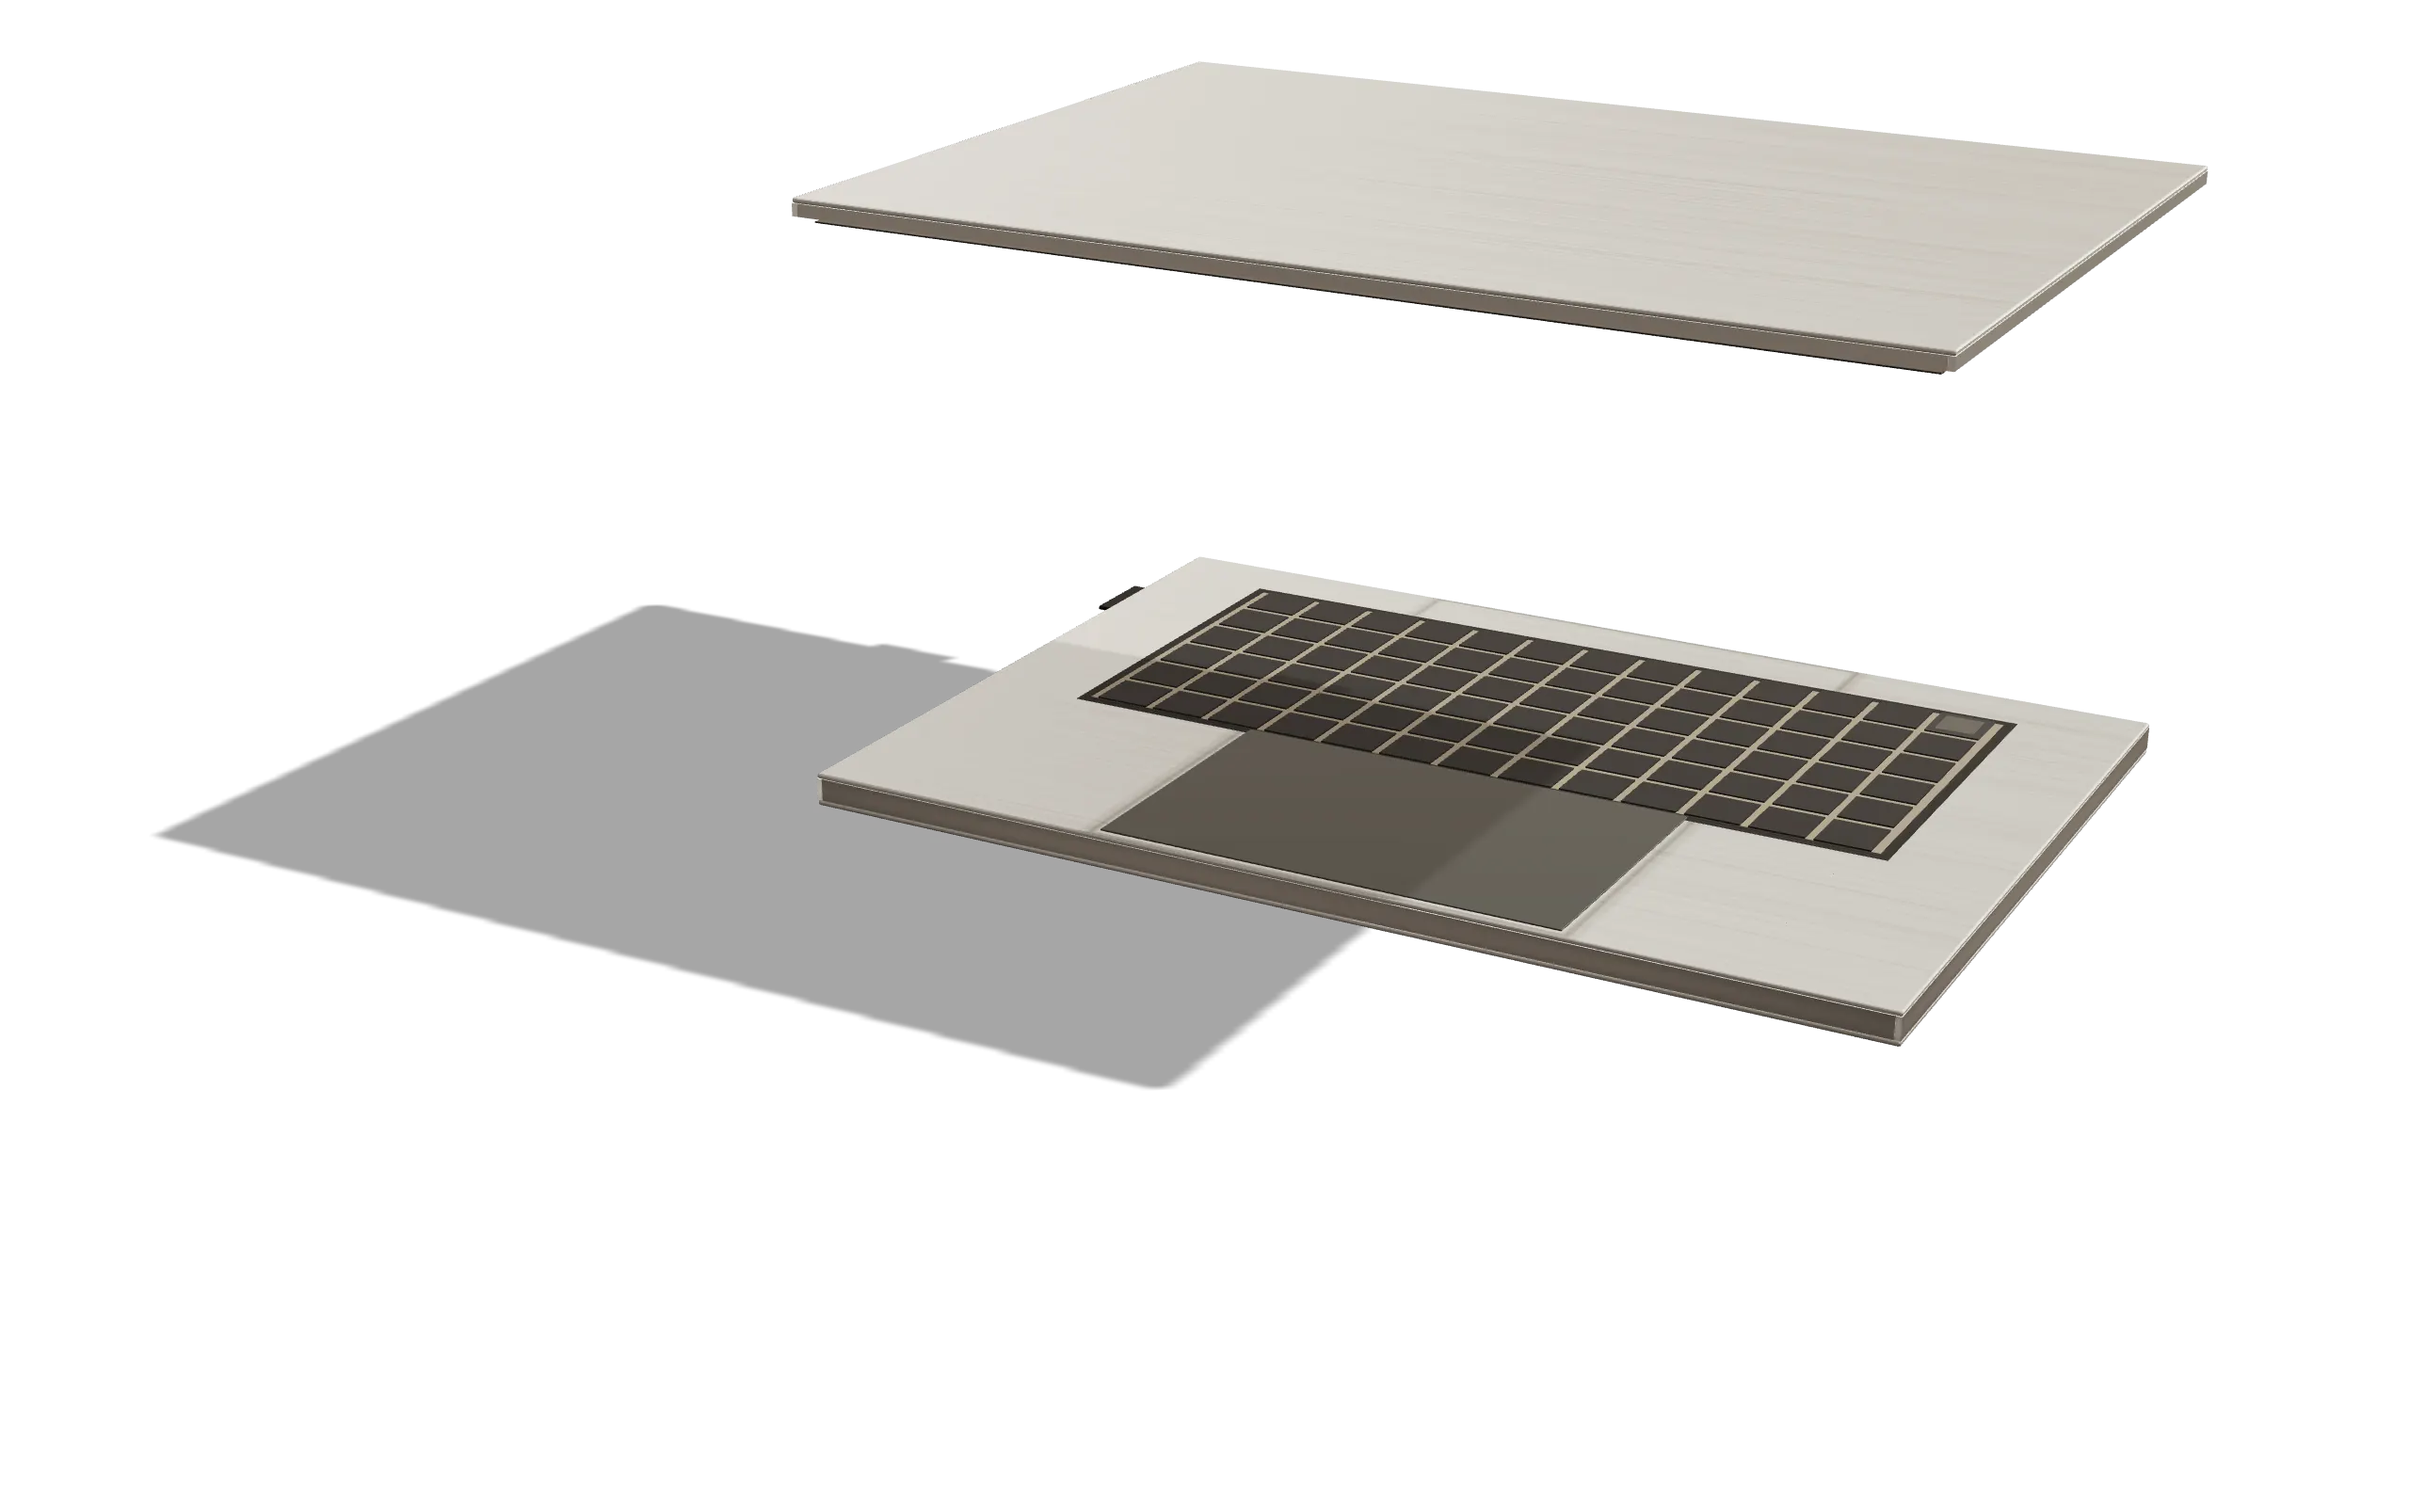
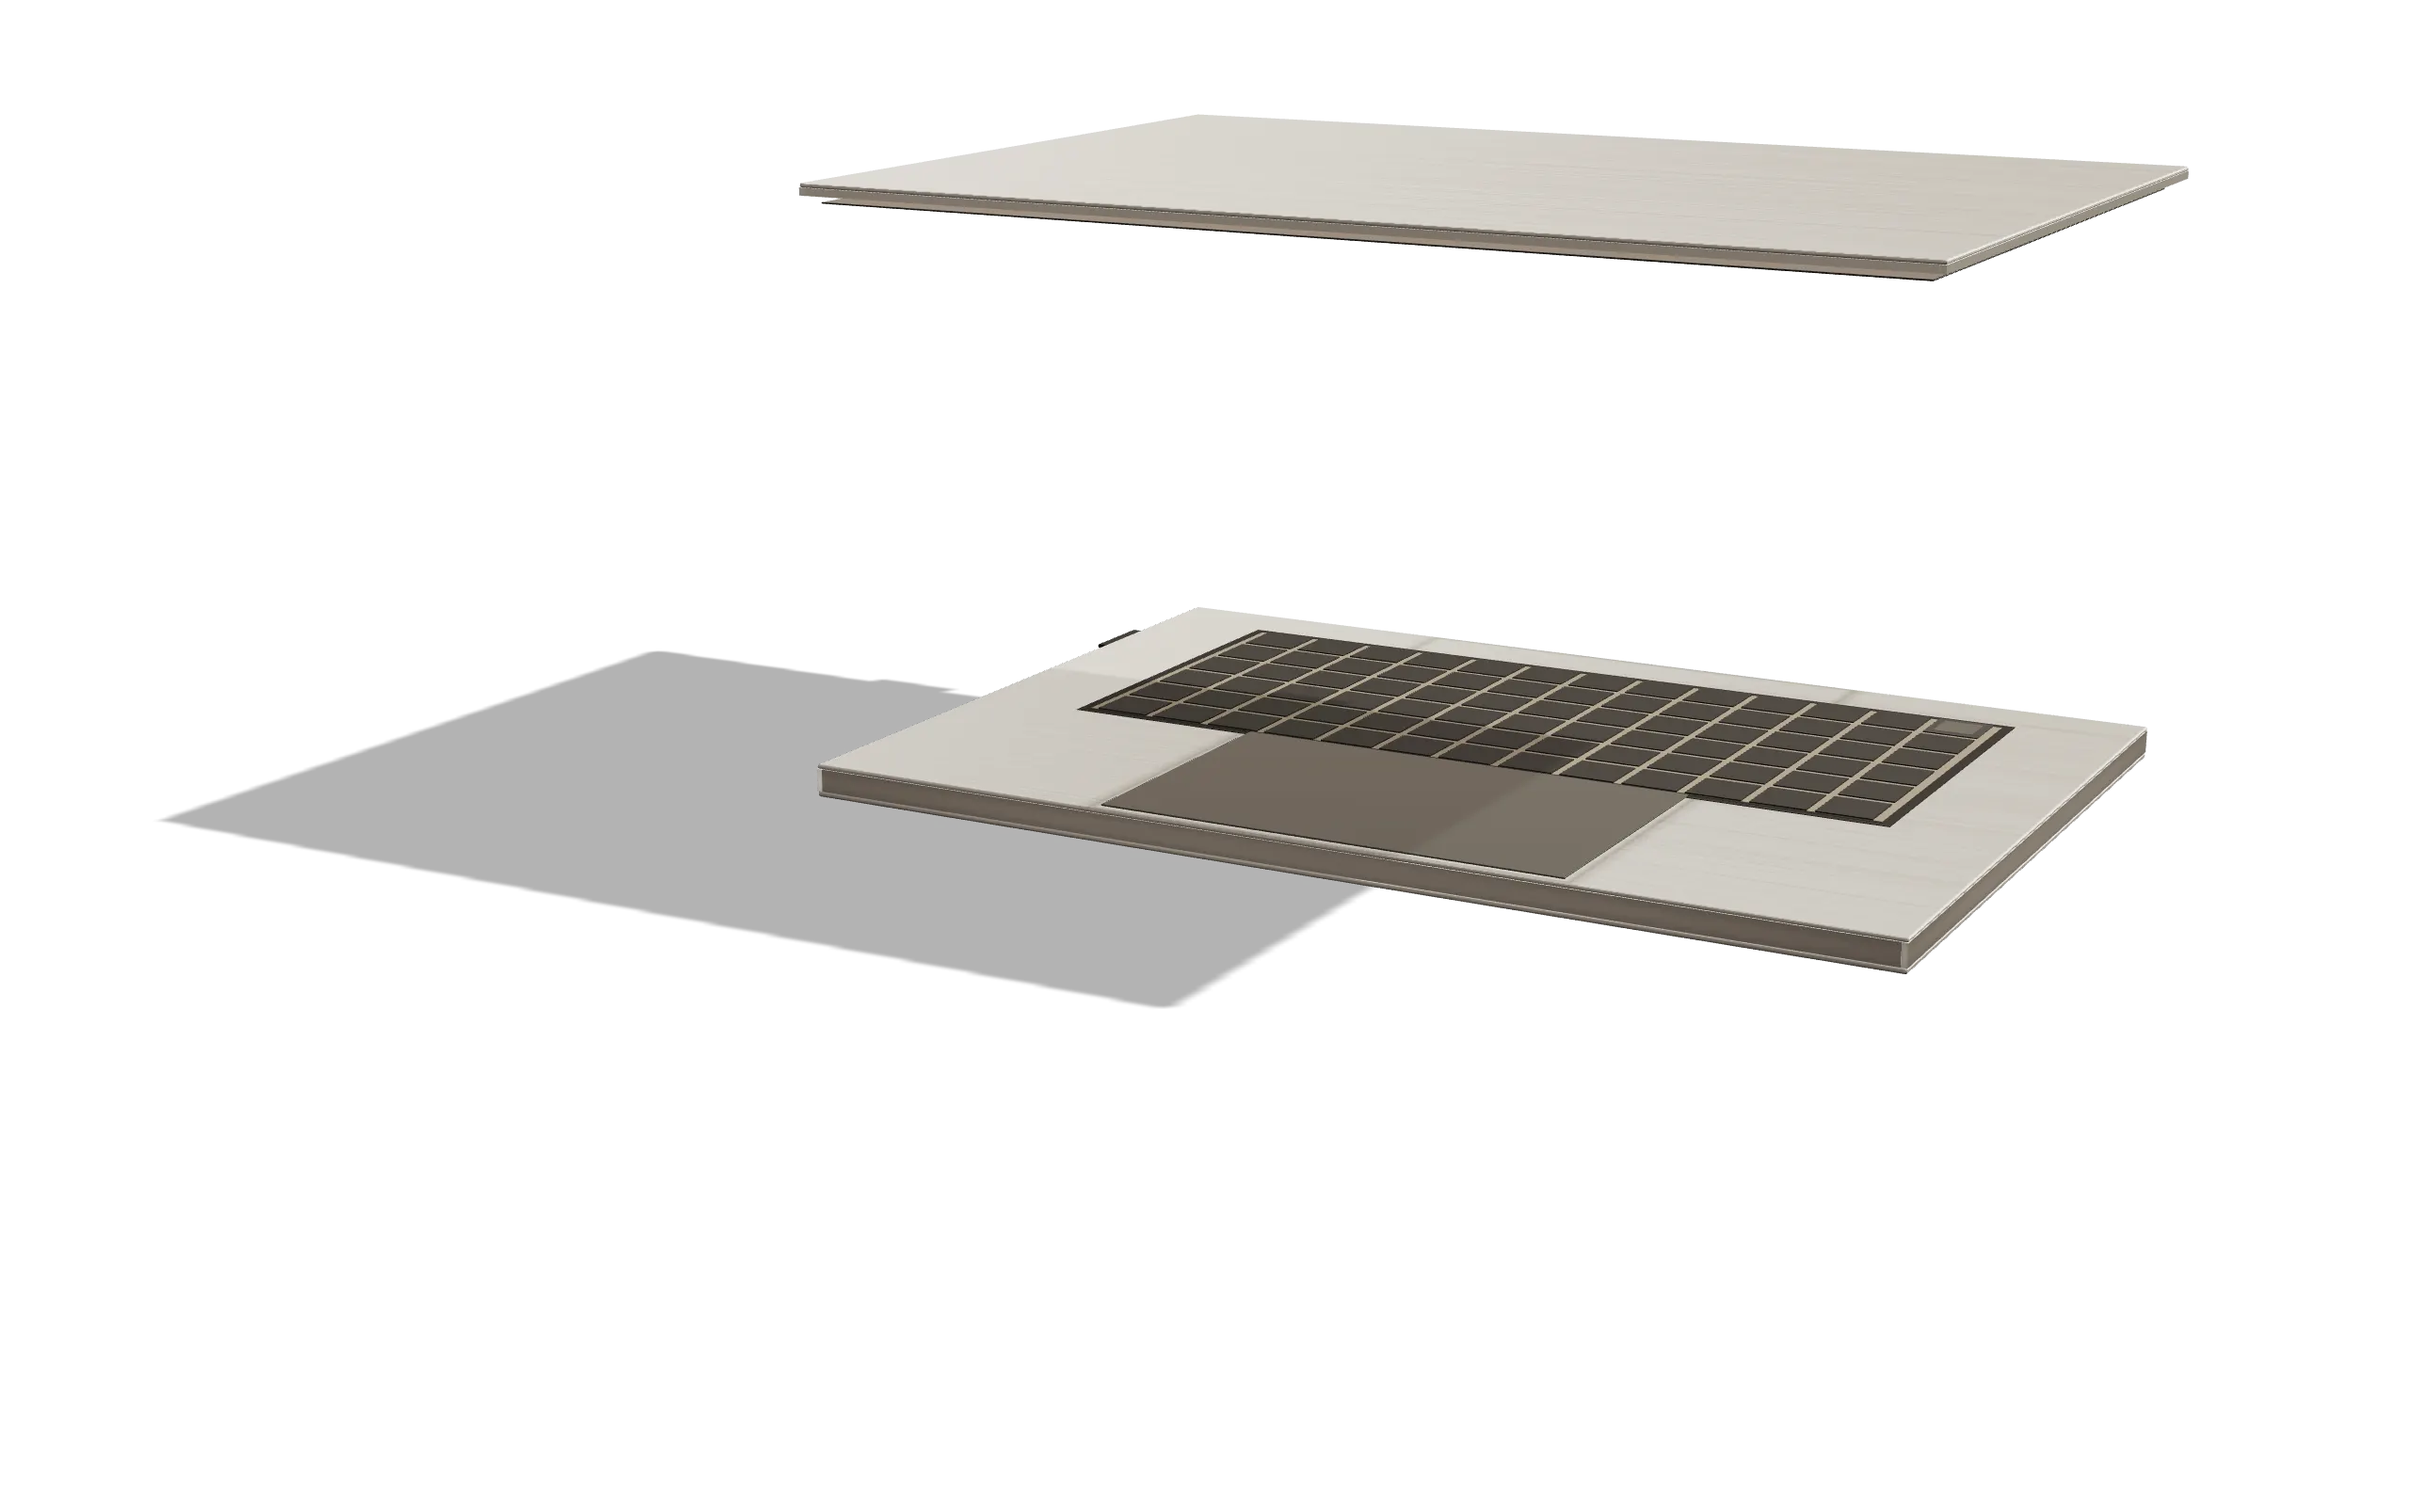
slim

Changed region(s): [[0.0625, 0.375, 0.9062, 0.7188], [0.3125, 0.0312, 0.9375, 0.25]]

diff --git a/engineering/js/model.js b/engineering/js/model.js
@@ -89,30 +89,32 @@ export function buildStandIn() {
   const display = new THREE.Group();
   display.name = 'display_assembly';
 
+  // Slimmed closed profile: the display assembly is a 3.3 mm stack
+  // (glass 10.9 → shell top 13.95) instead of the earlier 4.8 mm brick.
   display.add(buildMesh('display_shell', [{ mat: M.alu, geoms: [
-    rbox(304, 1.4, 212, 0, 14.9, 0, 0.6),              // outer shell plate, beveled edge
-    box(1.6, 3.4, 212, -151.2, 12.5, 0),               // perimeter skirt
-    box(1.6, 3.4, 212, 151.2, 12.5, 0),
-    box(300.8, 3.4, 1.6, 0, 12.5, -105.2),
-    box(300.8, 3.4, 1.6, 0, 12.5, 105.2),
+    rbox(304, 1.2, 212, 0, 13.35, 0, 0.55),            // outer shell plate, beveled edge
+    box(1.6, 2.05, 212, -151.2, 11.72, 0),             // perimeter skirt
+    box(1.6, 2.05, 212, 151.2, 11.72, 0),
+    box(300.8, 2.05, 1.6, 0, 11.72, -105.2),
+    box(300.8, 2.05, 1.6, 0, 11.72, 105.2),
   ]}]));
 
   display.add(buildMesh('display_antenna', [{ mat: M.plastic, geoms: [
-    box(40, 2.8, 4, -120, 12.2, -100),                 // antenna windows, hinge-side corners
-    box(40, 2.8, 4, 120, 12.2, -100),
+    box(40, 1.9, 4, -120, 11.85, -100),                // antenna windows, hinge-side corners
+    box(40, 1.9, 4, 120, 11.85, -100),
   ]}]));
 
   display.add(buildMesh('display_panel', [{ mat: M.panelDark, geoms: [
-    box(288, 0.6, 192, 0, 12.0, 2),
+    box(288, 0.6, 192, 0, 11.65, 2),
   ]}]));
 
   display.add(buildMesh('display_glass', [{ mat: M.glassBlack, geoms: [
-    rbox(296, 0.4, 200, 0, 11.4, 2, 0.18, 1),          // thin glass, tiny edge bevel
+    rbox(296, 0.4, 200, 0, 11.12, 2, 0.18, 1),         // thin glass, tiny edge bevel
   ]}]));
 
   display.add(buildMesh('display_camera', [
-    { mat: M.chip, geoms: [box(9, 0.7, 6, 0, 12.1, -92)] },
-    { mat: M.glassBlack, geoms: [cyl(1.2, 0.3, 0, 11.55, -92, 12)] },
+    { mat: M.chip, geoms: [box(9, 0.7, 6, 0, 11.75, -92)] },
+    { mat: M.glassBlack, geoms: [cyl(1.2, 0.3, 0, 11.35, -92, 12)] },
   ]));
 
   // Two flex ribbons arcing through the hinge line — segmented so the film
@@ -121,27 +123,27 @@ export function buildStandIn() {
     const segs = [];
     const g1 = new THREE.BoxGeometry(26 * MM, 0.25 * MM, 9 * MM);
     g1.rotateX(0.5);
-    g1.translate(x * MM, 10.9 * MM, -97 * MM);
+    g1.translate(x * MM, 10.75 * MM, -97 * MM);
     const g2 = new THREE.BoxGeometry(26 * MM, 0.25 * MM, 9 * MM);
     g2.rotateX(-0.35);
-    g2.translate(x * MM, 10.55 * MM, -104.5 * MM);
+    g2.translate(x * MM, 10.45 * MM, -104.5 * MM);
     segs.push(g1, g2);
     return segs;
   };
   display.add(buildMesh('display_flex', [{ mat: M.flexFilm, geoms: [
     ...flexArc(-60), ...flexArc(60),
   ]}, { mat: M.contact, geoms: [
-    box(26, 0.12, 1.4, -60, 11.05, -93.5),             // faint contact edges at the anchored ends
-    box(26, 0.12, 1.4, 60, 11.05, -93.5),
+    box(26, 0.12, 1.4, -60, 10.9, -93.5),              // faint contact edges at the anchored ends
+    box(26, 0.12, 1.4, 60, 10.9, -93.5),
   ]}]));
 
   display.add(buildMesh('hinge_barrel_l', [
-    { mat: M.aluDark, geoms: [cyl(2.8, 36, -92, 10.2, -102, 20, true)] },
-    { mat: M.steel, geoms: [box(12, 1.0, 8, -92, 10.2, -96)] },
+    { mat: M.aluDark, geoms: [cyl(2.5, 36, -92, 10.25, -102, 20, true)] },
+    { mat: M.steel, geoms: [box(12, 1.0, 8, -92, 10.25, -96)] },
   ]));
   display.add(buildMesh('hinge_barrel_r', [
-    { mat: M.aluDark, geoms: [cyl(2.8, 36, 92, 10.2, -102, 20, true)] },
-    { mat: M.steel, geoms: [box(12, 1.0, 8, 92, 10.2, -96)] },
+    { mat: M.aluDark, geoms: [cyl(2.5, 36, 92, 10.25, -102, 20, true)] },
+    { mat: M.steel, geoms: [box(12, 1.0, 8, 92, 10.25, -96)] },
   ]));
 
   recenterGroup(display);
@@ -154,16 +156,16 @@ export function buildStandIn() {
   topCase.name = 'top_case';
 
   topCase.add(buildMesh('top_shell', [
-    { mat: M.aluDeck, geoms: [rbox(304, 1.4, 212, 0, 9.7, 0, 0.6)] },
-    { mat: M.wellDark, geoms: [box(240, 0.15, 110, 0, 10.42, -32)] }, // keyboard well
+    { mat: M.aluDeck, geoms: [rbox(304, 1.2, 212, 0, 9.6, 0, 0.55)] },
+    { mat: M.wellDark, geoms: [box(240, 0.15, 110, 0, 10.27, -32)] }, // keyboard well
   ]));
 
   topCase.add(buildMesh('keyboard_membrane', [{ mat: M.membrane, geoms: [
-    box(236, 0.1, 106, 0, 10.51, -32),
+    box(236, 0.1, 106, 0, 10.38, -32),
   ]}]));
 
   topCase.add(buildMesh('key_backlight', [{ mat: M.backlight, geoms: [
-    box(234, 0.08, 104, 0, 10.58, -32),
+    box(234, 0.08, 104, 0, 10.46, -32),
   ]}]));
 
   // 77 shallow keys + 1 distinct fingerprint power button (6 rows × 13 cols).
@@ -171,17 +173,17 @@ export function buildStandIn() {
   for (let r = 0; r < 6; r++) {
     for (let c = 0; c < 13; c++) {
       if (r === 0 && c === 12) continue; // power button slot
-      keyGeoms.push(rbox(15.6, 0.5, 15.6, -106.8 + c * 17.8, 10.9, -76.5 + r * 17.8, 0.2, 1));
+      keyGeoms.push(rbox(15.6, 0.4, 15.6, -106.8 + c * 17.8, 10.7, -76.5 + r * 17.8, 0.18, 1));
     }
   }
   topCase.add(buildMesh('keycap_field', [{ mat: M.keycap, geoms: keyGeoms }]));
   topCase.add(buildMesh('power_button', [
-    { mat: M.button, geoms: [rbox(15.6, 0.5, 15.6, -106.8 + 12 * 17.8, 10.9, -76.5, 0.2, 1)] },
-    { mat: M.steel, geoms: [box(11, 0.1, 11, -106.8 + 12 * 17.8, 11.2, -76.5)] }, // sensor ring hint
+    { mat: M.button, geoms: [rbox(15.6, 0.4, 15.6, -106.8 + 12 * 17.8, 10.7, -76.5, 0.18, 1)] },
+    { mat: M.steel, geoms: [box(11, 0.08, 11, -106.8 + 12 * 17.8, 10.94, -76.5)] }, // sensor ring hint
   ]));
 
   topCase.add(buildMesh('trackpad_glass', [{ mat: M.glassPad, geoms: [
-    rbox(130, 0.5, 82, 0, 10.6, 62, 0.22, 1),
+    rbox(130, 0.45, 82, 0, 10.42, 62, 0.2, 1),
   ]}]));
   topCase.add(buildMesh('trackpad_assembly', [
     { mat: M.steel, geoms: [rbox(118, 0.5, 72, 0, 8.75, 62, 0.2, 1)] },

diff --git a/engineering/js/camera-rig.js b/engineering/js/camera-rig.js
@@ -12,8 +12,12 @@ const DEG = Math.PI / 180;
 // the laptop's front edge (+Z); positive swings toward +X (screen-right side).
 // ty = target height in W; shift = subject-center offset (0.12 → 62vw, 0 → 50vw).
 const POSE_DATA = {
-  P0: { az: 24, el: 22, d: 4.15, ty: 0.02, shift: 0.12 },
-  P1: { az: 24, el: 22, d: 2.90, ty: 0.02, shift: 0.12 },
+  // P0/P1 elevation lowered 22° → 16° (closed-laptop slimming pass): the
+  // lower product angle compresses the projected footprint and reads the
+  // closed machine as a thin machined slab. Both poses move together so B1
+  // stays a pure dolly; P2–P5 are untouched.
+  P0: { az: 24, el: 16, d: 4.15, ty: 0.02, shift: 0.12 },
+  P1: { az: 24, el: 16, d: 2.90, ty: 0.02, shift: 0.12 },
   P2: { az: 38, el: 9,  d: 2.95, ty: 0.10, shift: 0.12 },
   P3: { az: 30, el: 48, d: 2.95, ty: 0.14, shift: 0.12 },
   P4: { az: 24, el: 24, d: 2.90, ty: 0.11, shift: 0.12 },

diff --git a/engineering/index.html b/engineering/index.html
@@ -200,7 +200,7 @@
             <source type="image/webp" srcset="/engineering/assets/fallback/teardown-r1_1280.v1.webp 1280w, /engineering/assets/fallback/teardown-r1_2560.v1.webp 2560w" sizes="(max-width: 767px) 92vw, 72vw">
             <img src="/engineering/assets/fallback/teardown-r1_1280.v1.webp" alt="The laptop&rsquo;s display lifted straight up off the body, hanging above it." loading="lazy" decoding="async">
           </picture>
-          <span class="still-caption" style="--ax:86.9%;--ay:17.5%">Display</span>
+          <span class="still-caption" style="--ax:86.4%;--ay:14.6%">Display</span>
         </figure>
       </section>
 

diff --git a/engineering/js/scene.js b/engineering/js/scene.js
@@ -45,10 +45,12 @@ export function createScene(q) {
   bounceFill.position.set(-1.6, 0.9, 1.2);
   scene.add(bounceFill);
 
-  // Ground rig (D-012): 1.2 × 1.2 m ShadowMaterial plane, opacity 0.35, receive-only.
+  // Ground rig (D-012 geometry; opacity graded 0.35 → 0.30 in the slimming
+  // pass — a lighter contact shadow reads the closed machine as sitting low
+  // and light on the surface).
   const ground = new THREE.Mesh(
     new THREE.PlaneGeometry(1.2, 1.2),
-    new THREE.ShadowMaterial({ opacity: 0.35 })
+    new THREE.ShadowMaterial({ opacity: 0.30 })
   );
   ground.rotation.x = -Math.PI / 2;
   ground.position.y = 0;

diff --git a/docs/logs.md b/docs/logs.md
@@ -6,6 +6,55 @@
 
 ---
 
+## 2026-07-02 17:35 - Developer (Implementation) - engineering-demo-slim-pass-1
+
+Action:
+Finished
+
+Task:
+Owner-directed surgical tweak: make only the starting closed-laptop state read slimmer, closer to
+a thin fanless ultrabook profile. No changes to the animation sequence, labels, copy, internal
+detail, or later camera choreography.
+
+Files claimed:
+
+- engineering/js/model.js (display assembly + top case vertical numbers only)
+- engineering/js/camera-rig.js (P0/P1 elevation only)
+- engineering/js/scene.js (ground-shadow opacity only)
+- engineering/assets/fallback/*.webp (re-capture)
+- engineering/index.html + docs/engineering-demo/asset-source/caption-anchors.json (one anchor)
+
+Files changed:
+
+- engineering/js/model.js — display assembly slimmed 4.8 → 3.3 mm (shell plate 1.2, shorter
+  skirt, glass/panel/camera/antenna/flex/hinges lowered accordingly); top case plate 1.4 → 1.2 mm
+  with shallower keys (0.5 → 0.4, lower profile) and flush trackpad glass; closed height
+  15.6 → 14.0 mm. Interior geometry below the y = 9.0 seam untouched — B4–B6 identical
+- engineering/js/camera-rig.js — P0/P1 elevation 22° → 16° (both together, so B1 stays a pure
+  dolly; the lower product angle compresses the projected footprint ≈ 23%). P2–P5 untouched
+- engineering/js/scene.js — ground shadow opacity 0.35 → 0.30 (lighter, lower-sitting read;
+  D-012 geometry unchanged)
+- engineering/assets/fallback/*.webp — stills re-captured (R2–R4 anchors identical to before,
+  confirming later beats unchanged; only R1's display anchor moved)
+- engineering/index.html + caption-anchors.json — the one moved anchor transcribed
+
+Summary:
+Combined effect ≈ 25–30% visual thickness reduction at the hero state: real −1.6 mm off the
+closed stack plus the lower product angle. The closed machine now reads as a thin machined slab
+with a bright bevel line at its base, sitting low on a soft shadow. First separation (B2) is
+pop-free by construction — the slimmed slabs are the same objects that tear down.
+
+Testing:
+Headless Chrome: zero console errors, QA-1 clean, zero off-origin requests; forward/reverse
+pixel-identical; full matrix (no-JS + stills, reduced-motion static with zero animation bytes,
+WebGL2-blocked static, mobile 390×844 no overflow, file:// guard, skip link p=1.000, homepage
+untouched); screenshots verified at p=0, 0.13 (first separation), 0.46 and 1.0 (unchanged beats);
+node --check on all modules.
+
+Risks / Notes:
+The shadow-opacity grade (0.35 → 0.30) and P0/P1 elevation are deviations from 05 §6.5/§6.7
+numbers — decisions.md entries recommended alongside the earlier passes' entries.
+
 ## 2026-07-02 16:50 - Developer (Implementation) - engineering-demo-material-pass-1
 
 Action:
